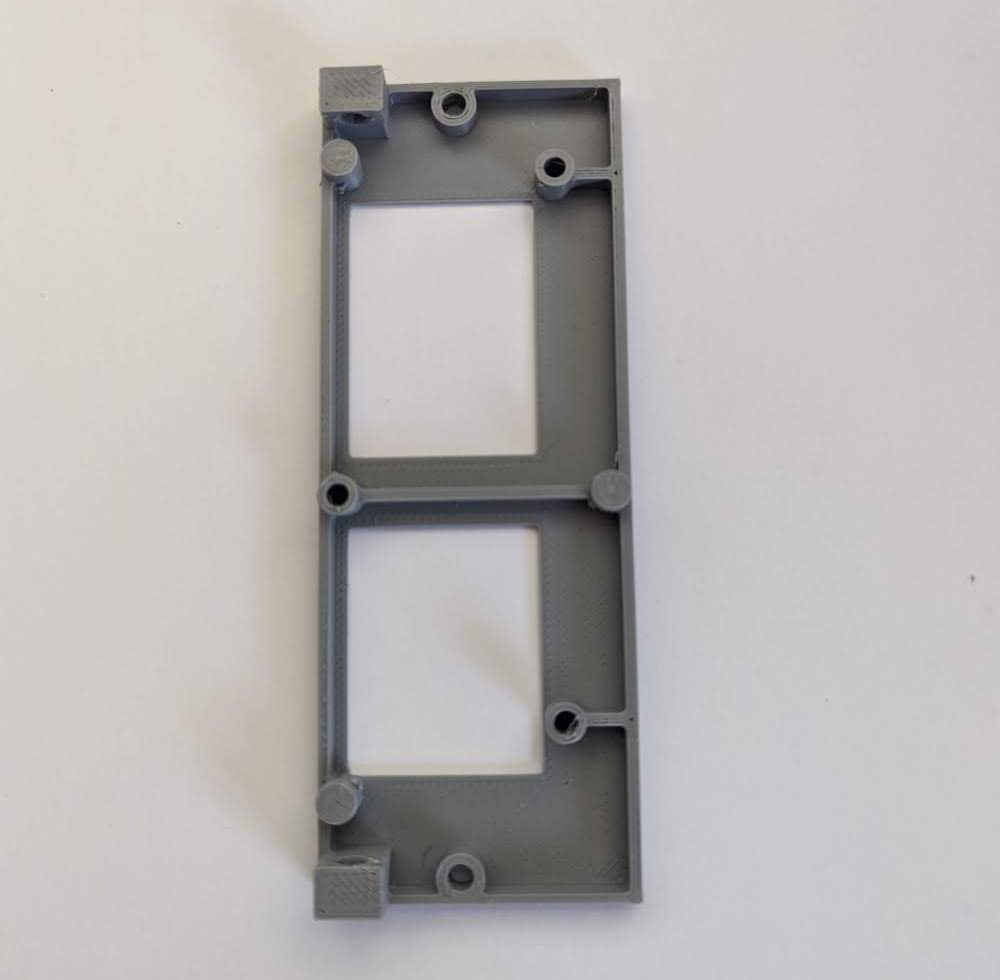
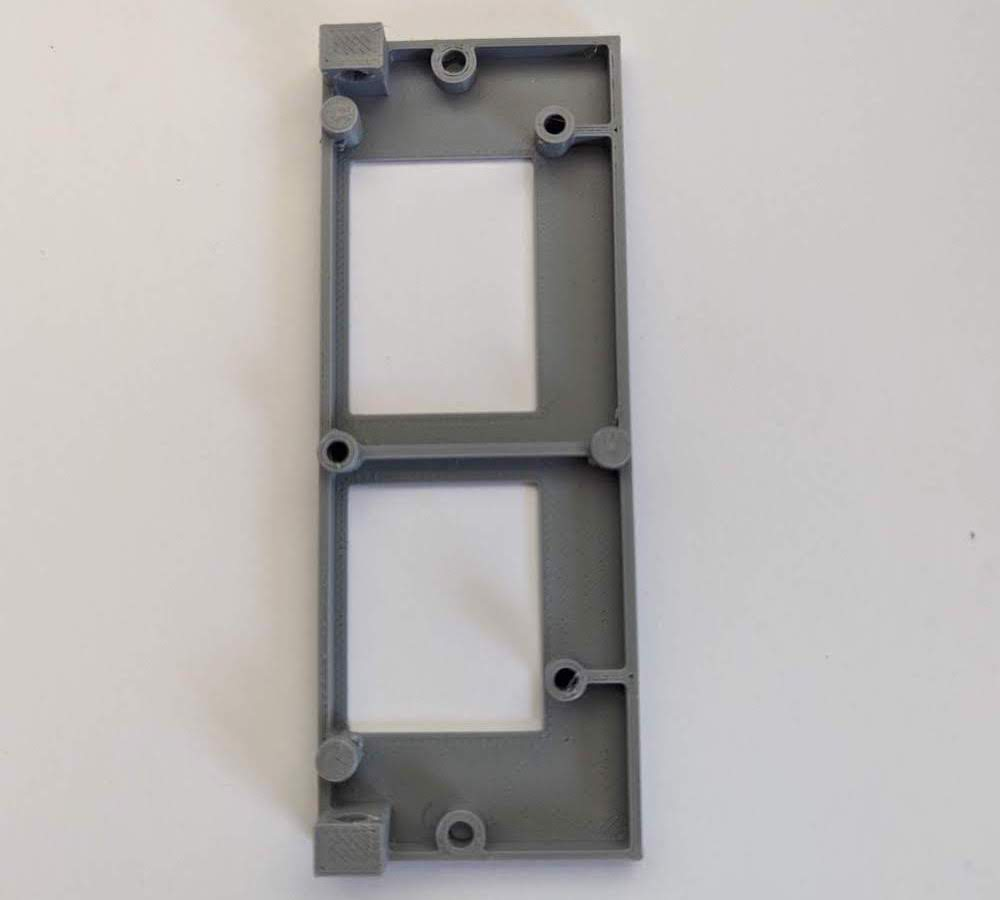
update photos sizing

diff --git a/v23dprintdesktoppotatofi.md b/v23dprintdesktoppotatofi.md
@@ -13,7 +13,27 @@ tags:
 
 ##### 🇬🇧🇪🇺 Desktop Mount 3D Print V2 (PotatoFi) 🇬🇧🇪🇺
 
-![{{page.cart_description}}]({{page.cart_image}})
+<div id="carouselExampleControls" class="carousel slide" data-bs-ride="carousel">
+  <div class="carousel-inner">
+    <div class="carousel-item active">
+      <img src="{{page.cart_image}}" class="d-block w-100" alt="{{page.cart_description}}">
+    </div>
+    <div class="carousel-item">
+      <img src="assets/img/v23dprintdesktoppotatofi2.jpg" class="d-block w-100" alt="{{page.cart_description}}">
+    </div>
+    <div class="carousel-item">
+      <img src="assets/img/v23dprintdesktoppotatofi3.jpg" class="d-block w-100" alt="{{page.cart_description}}">
+    </div>
+  </div>
+  <button class="carousel-control-prev" type="button" data-bs-target="#carouselExampleControls" data-bs-slide="prev">
+    <span class="carousel-control-prev-icon" aria-hidden="true"></span>
+    <span class="visually-hidden">Previous</span>
+  </button>
+  <button class="carousel-control-next" type="button" data-bs-target="#carouselExampleControls" data-bs-slide="next">
+    <span class="carousel-control-next-icon" aria-hidden="true"></span>
+    <span class="visually-hidden">Next</span>
+  </button>
+</div>
 
 Please view [3D Print Information Page](/print) for purchasing 3D prints separately. This is to purchase 3D prints when purchasing a BlueSCSI device at the same time as postage is included. This is another option for the V2 Desktop modelled by [PotatoFi](https://www.printables.com/@PotatoFi){:target="_blank"}, which is a lovely solid mounting bracket.
 

diff --git a/_includes/list3dprint.md b/_includes/list3dprint.md
@@ -1,5 +1,5 @@
 ###### [{{page.cart_name}}]({{page.url}}) 
 {{page.cart_description}} - <b>£{{page.cart_price}}</b> {{site.icon}}[Add to cart](/cart#{{page.cart_itemid}})<br>
 <p class="lead text-center">
-    <img src="{{page.cart_image}}" class="img-thumbnail" alt="bracket">
+    <img src="{{page.cart_image}}" class="img-thumbnail" alt="{{page.cart_description}}">
   </p>
